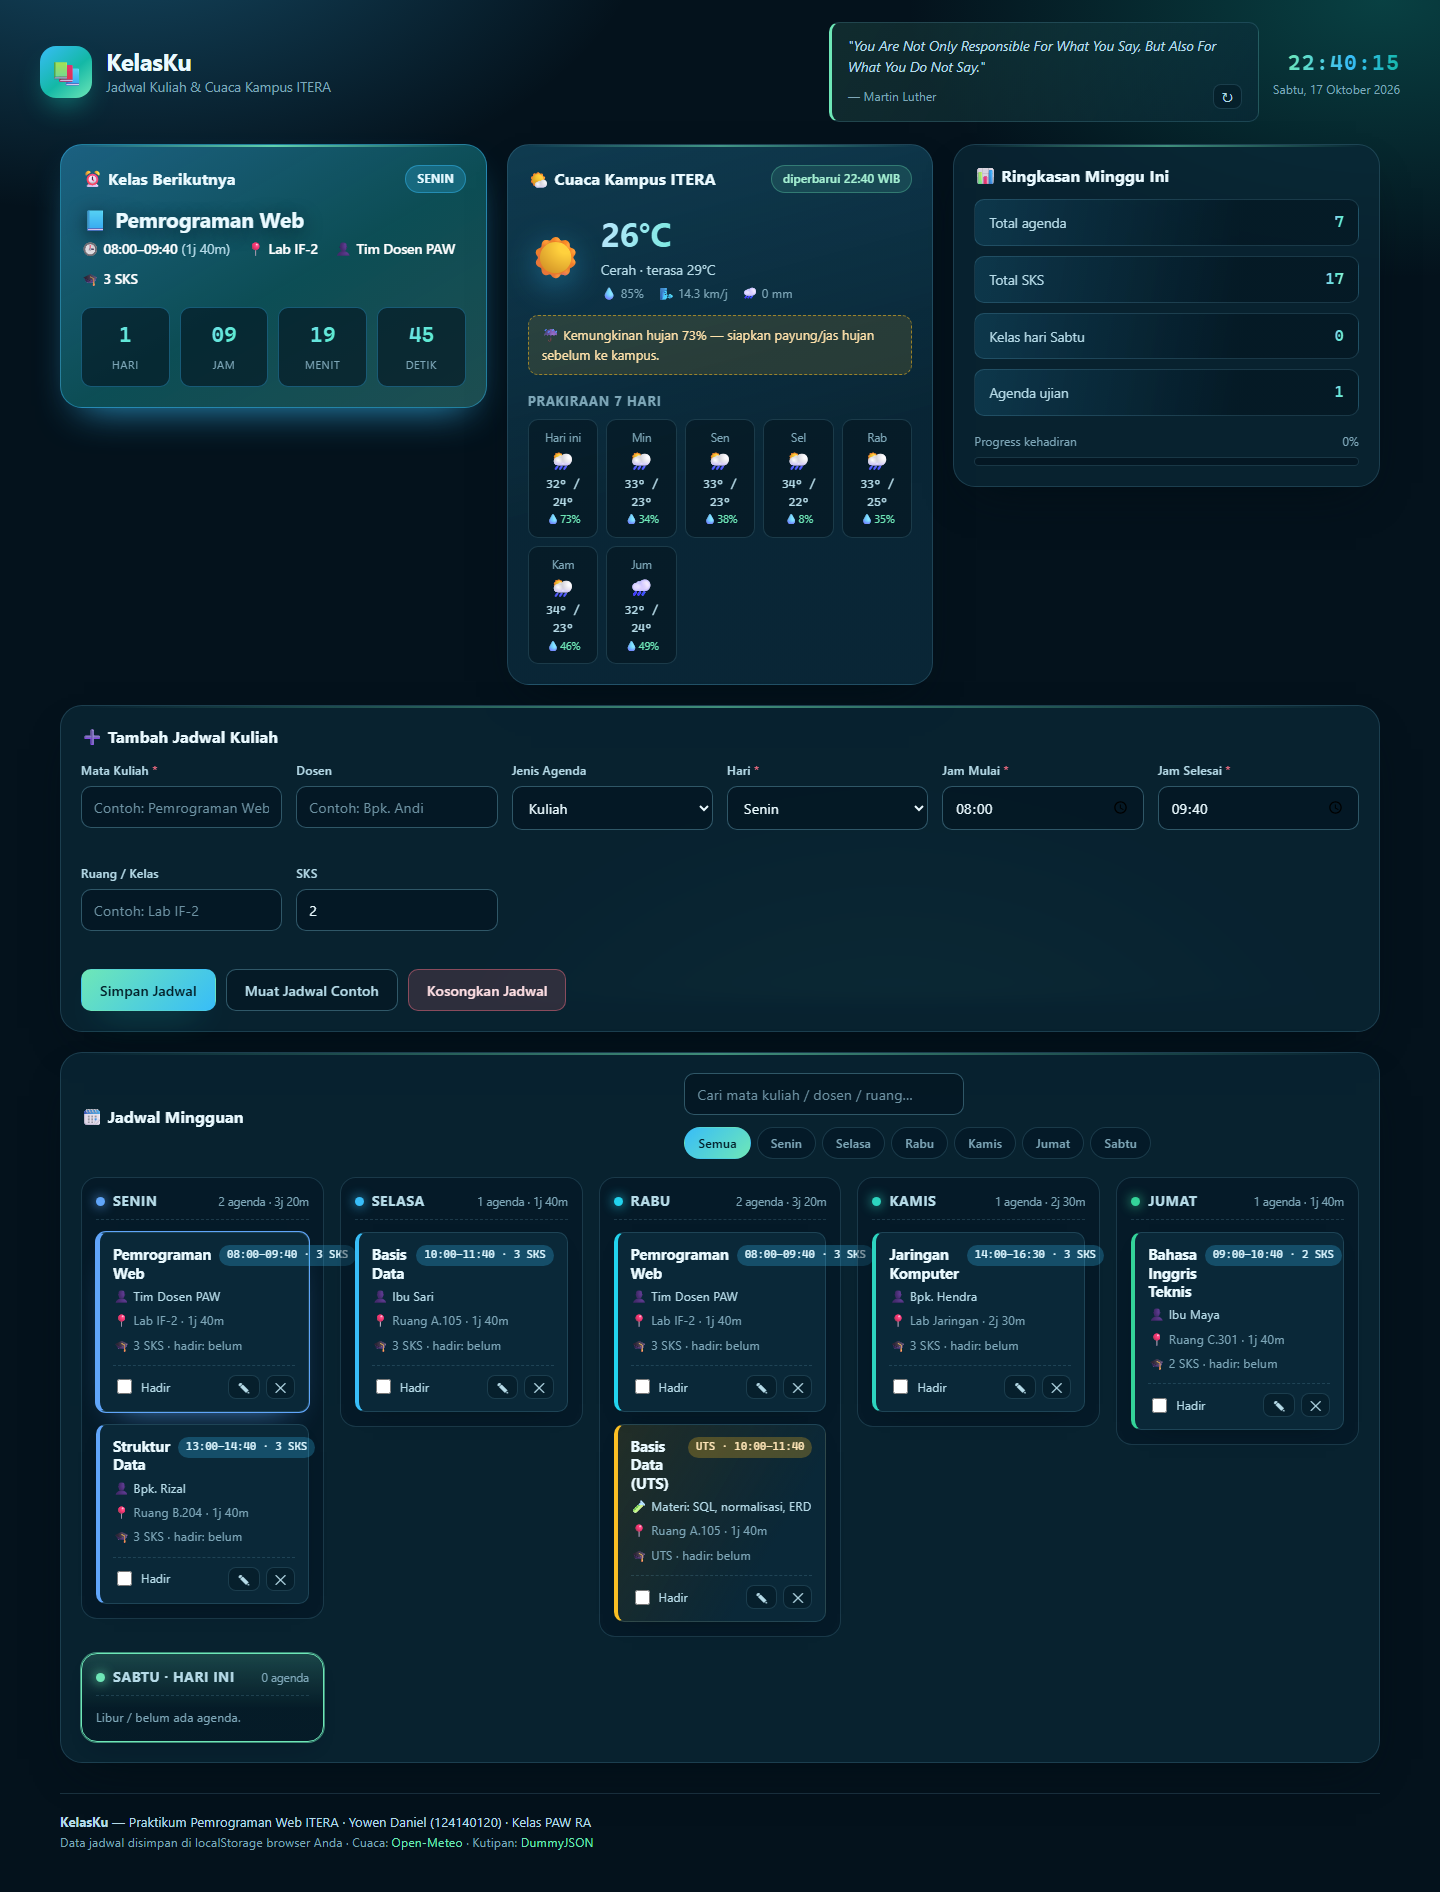
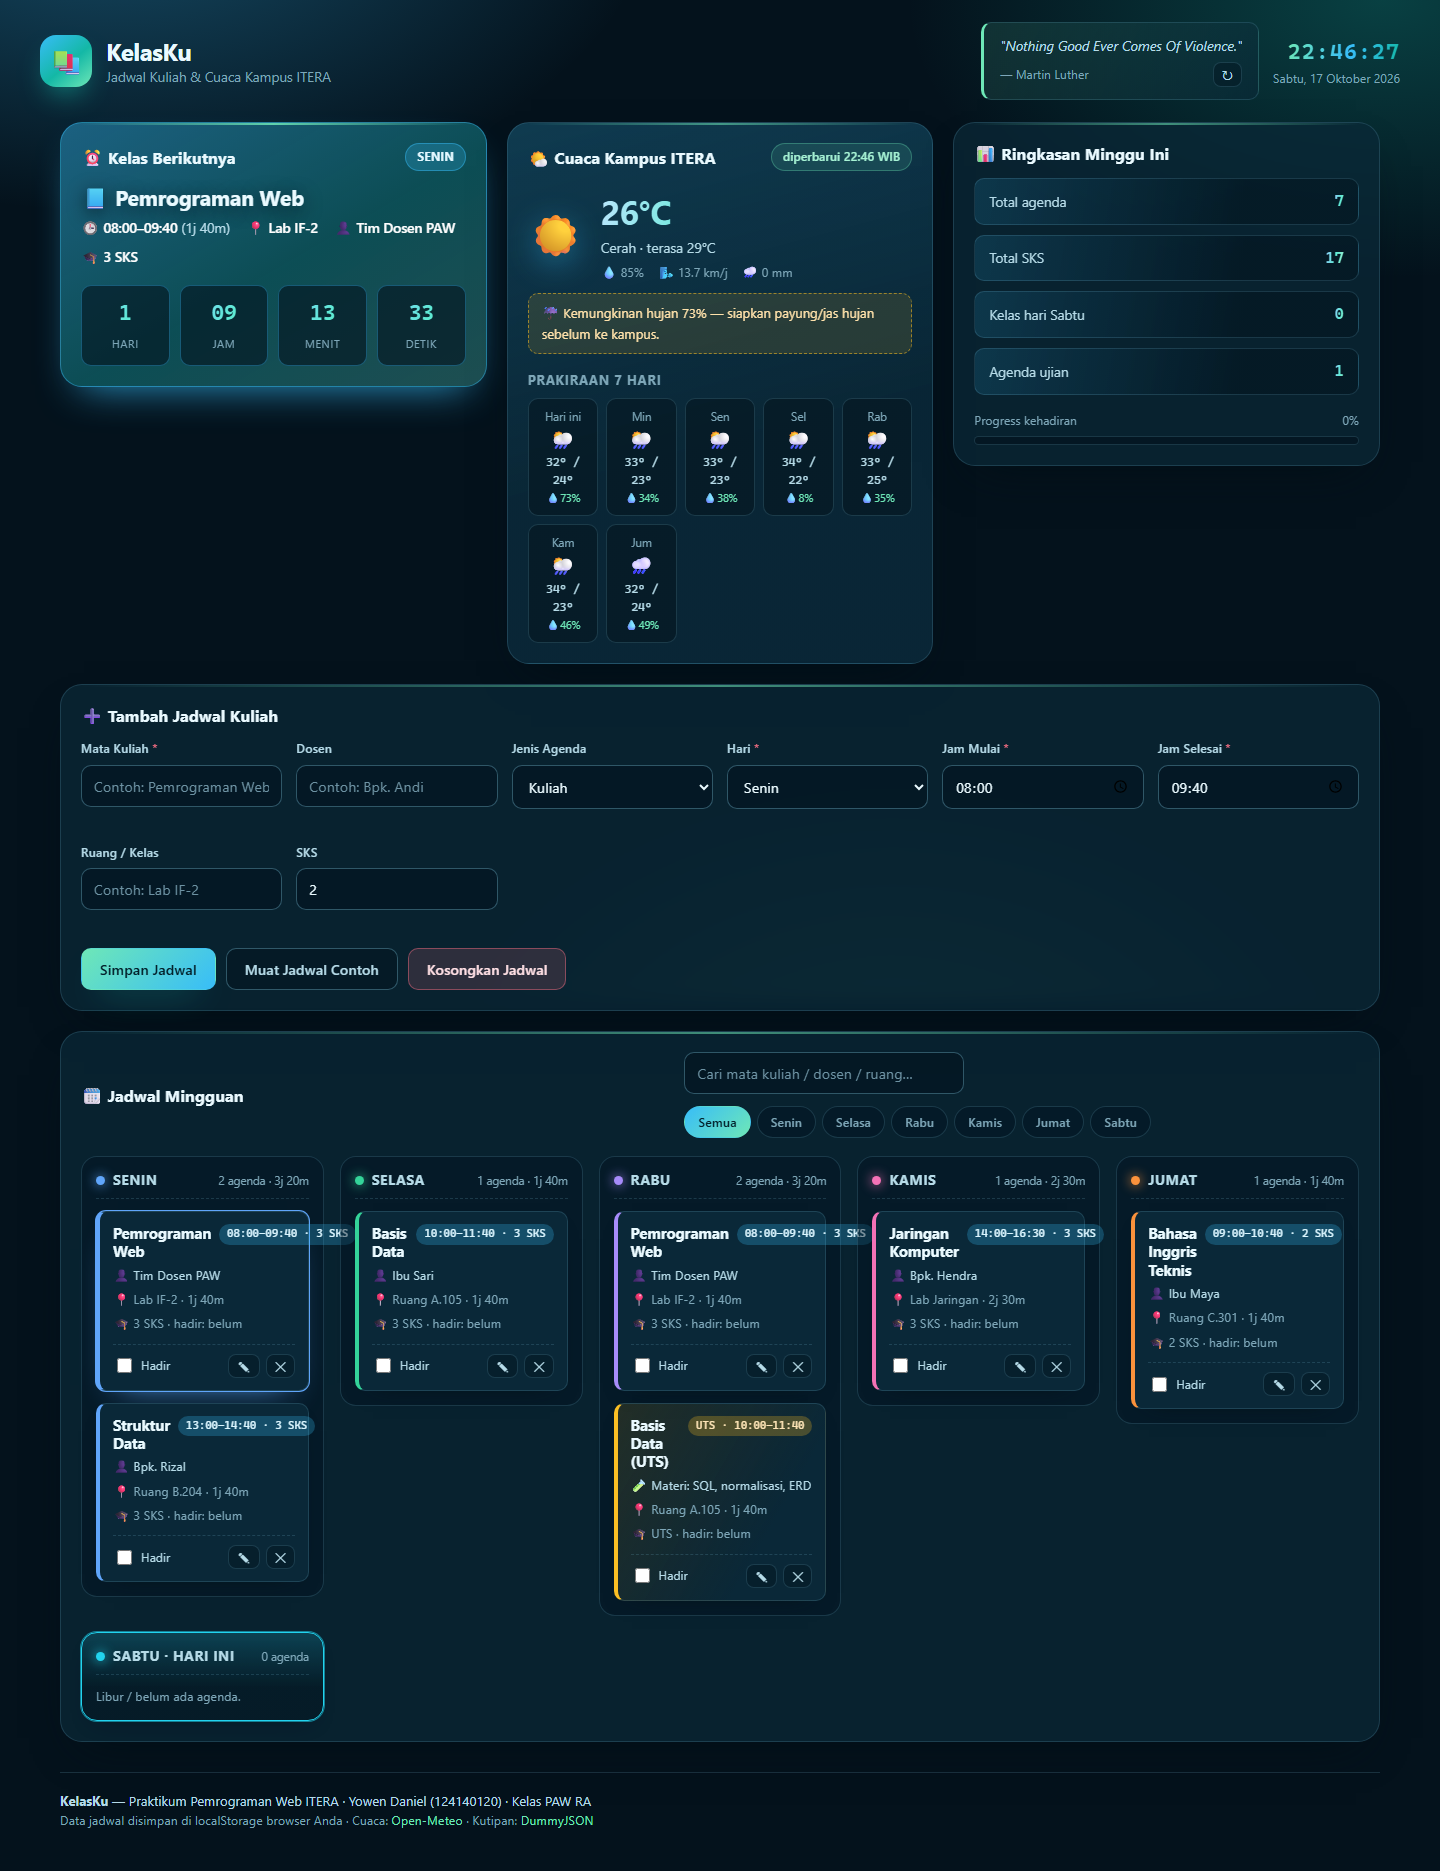
Kembalikan warna hari yang kontras (biru, hijau, ungu, pink, oranye, cyan) + screenshot ulang

diff --git a/YowenDaniel_124140120_pertemuan2/style.css b/YowenDaniel_124140120_pertemuan2/style.css
@@ -768,7 +768,7 @@ input[aria-invalid="true"] {
   align-items: start;
 }
 
-/* Kode warna per hari: gradasi biru → teal → mint sepanjang minggu. */
+/* Kode warna per hari: tiap hari dibedakan jelas (biru, hijau, ungu, pink, oranye, cyan). */
 .day-column {
   --day-color: var(--primary);
   --day-rgb: 56, 189, 248;
@@ -781,12 +781,12 @@ input[aria-invalid="true"] {
   background: rgba(3, 20, 30, 0.42);
 }
 
-.day--senin { --day-color: #60a5fa; --day-rgb: 96, 165, 250; }
-.day--selasa { --day-color: #38bdf8; --day-rgb: 56, 189, 248; }
-.day--rabu { --day-color: #22d3ee; --day-rgb: 34, 211, 238; }
-.day--kamis { --day-color: #2dd4bf; --day-rgb: 45, 212, 191; }
-.day--jumat { --day-color: #34d399; --day-rgb: 52, 211, 153; }
-.day--sabtu { --day-color: #6ee7b7; --day-rgb: 110, 231, 183; }
+.day--senin  { --day-color: #60a5fa; --day-rgb: 96, 165, 250; }
+.day--selasa { --day-color: #34d399; --day-rgb: 52, 211, 153; }
+.day--rabu   { --day-color: #a78bfa; --day-rgb: 167, 139, 250; }
+.day--kamis  { --day-color: #f472b6; --day-rgb: 244, 114, 182; }
+.day--jumat  { --day-color: #fb923c; --day-rgb: 251, 146, 60; }
+.day--sabtu  { --day-color: #22d3ee; --day-rgb: 34, 211, 238; }
 
 .day-column.is-today {
   border-color: var(--day-color);

diff --git a/YowenDaniel_124140120_pertemuan2/README.md b/YowenDaniel_124140120_pertemuan2/README.md
@@ -35,7 +35,7 @@ Dibuat dengan **HTML5, CSS3, dan JavaScript Vanilla (ES6+)** tanpa framework, ta
 - [x] Kartu **Kelas Berikutnya** dengan countdown *live* (hari/jam/menit/detik, diperbarui tiap detik)
 - [x] Status otomatis: **"sedang berlangsung"** saat kelas sedang berjalan, "Hari ini", atau "Besok"
 - [x] Grid jadwal mingguan Senin–Sabtu, kolom **hari ini** otomatis di-highlight
-- [x] **Kode warna per hari**: setiap hari punya warna sendiri (titik hari, garis tepi kartu, dan sorotan kolom "hari ini") agar jadwal cepat dikenali
+- [x] **Kode warna per hari**: tiap hari punya warna yang berbeda jelas — Senin biru, Selasa hijau, Rabu ungu, Kamis pink, Jumat oranye, Sabtu cyan — dipakai pada titik hari, garis tepi kartu, dan sorotan kolom "hari ini" agar jadwal cepat dikenali
 - [x] Filter per hari + pencarian *live* berdasarkan mata kuliah/dosen/ruang
 - [x] Ringkasan: total agenda, total SKS, kelas hari ini, dan jumlah agenda ujian
 - [x] Widget **cuaca Kampus ITERA** + prakiraan 7 hari + saran "bawa payung / aman"
